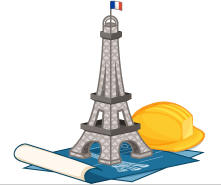
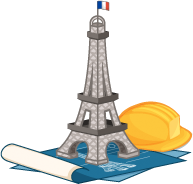
New feature images with fade instead of line.

Changed region(s): [[0.0, 0.0, 1.0, 1.0], [0.4352, 0.2989, 0.4663, 0.3261], [0.4352, 0.163, 0.4663, 0.1902]]

diff --git a/source/stylesheets/site.css.scss b/source/stylesheets/site.css.scss
@@ -315,6 +315,12 @@ $content-width: $page-width - $sidebar-width - $col-spacing;
     float: left;
     margin-left: $col-width + $col-spacing;
     margin-right: $col-spacing;
+    
+    img {
+      margin-left: auto;
+      margin-right: auto;
+      display: block;
+    }
 
     p {
       text-align: center;
